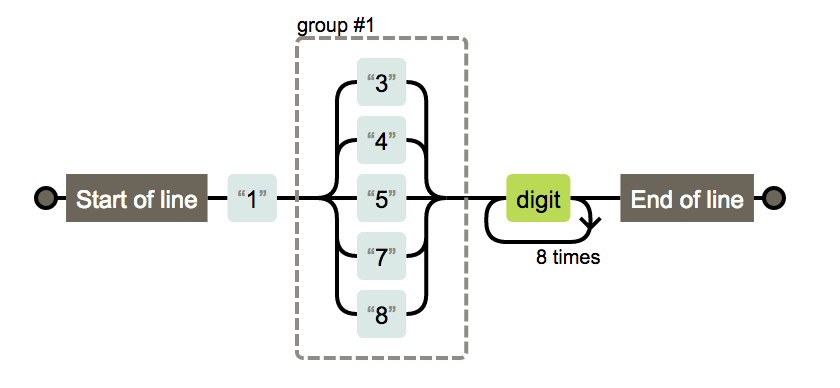
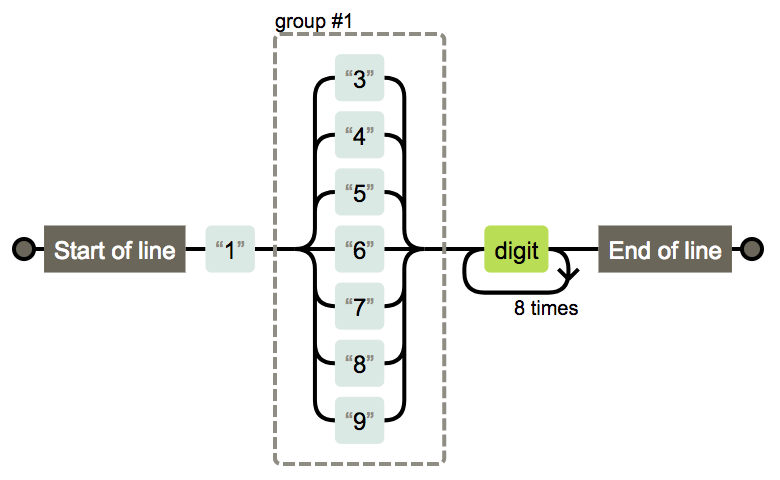
FIxed #1, Add 166/199 cell phone number

Changed region(s): [[0.0, 0.0309, 0.9846, 0.9897], [0.3385, 0.2474, 0.3692, 0.4021], [0.3385, 0.6186, 0.3692, 0.7423]]

diff --git a/README.md b/README.md
@@ -1,6 +1,6 @@
-# Common Regular Expression
-
-![Regex](images/regex.png)
+<div align="center">
+    <p><img src="http://openlogos.org/logos/neo.jpg" /></p>
+</div>
 
 ## 目录
 
@@ -10,31 +10,31 @@
 - [IP](#ip)
 - [帐号校验](#帐号校验)
 - [字符校验](#字符校验)
-    - [汉字](#汉字)
-    - [英文和数字](#英文和数字)
-    - [长度为3-20的所有字符](#长度为3-20的所有字符)
-    - [英文字符](#由英文字符)
-        - [由26个英文字母组成的字符串](#由26个英文字母组成的字符串)
-        - [由26个大写英文字母组成的字符串](#由26个大写英文字母组成的字符串)
-        - [由26个小写英文字母组成的字符串](#由26个小写英文字母组成的字符串)
-        - [由数字和26个英文字母组成的字符串](#由数字和26个英文字母组成的字符串)
-        - [由数字、26个英文字母或者下划线组成的字符串](#由数字26个英文字母或者下划线组成的字符串)
-    - [中文、英文、数字包括下划线](#中文英文数字包括下划线)
-    - [中文、英文、数字但不包括下划线等符号](#中文英文数字但不包括下划线等符号)
-    - [禁止输入含有^%&',;=?$\"等字符](#禁止输入含有等字符)
-    - [禁止输入含有~的字符](#禁止输入含有的字符)
+  - [汉字](#汉字)
+  - [英文和数字](#英文和数字)
+  - [长度为3-20的所有字符](#长度为3-20的所有字符)
+  - [英文字符](#由英文字符)
+    - [由26个英文字母组成的字符串](#由26个英文字母组成的字符串)
+    - [由26个大写英文字母组成的字符串](#由26个大写英文字母组成的字符串)
+    - [由26个小写英文字母组成的字符串](#由26个小写英文字母组成的字符串)
+    - [由数字和26个英文字母组成的字符串](#由数字和26个英文字母组成的字符串)
+    - [由数字、26个英文字母或者下划线组成的字符串](#由数字26个英文字母或者下划线组成的字符串)
+  - [中文、英文、数字包括下划线](#中文英文数字包括下划线)
+  - [中文、英文、数字但不包括下划线等符号](#中文英文数字但不包括下划线等符号)
+  - [禁止输入含有^%&',;=?$\"等字符](#禁止输入含有等字符)
+  - [禁止输入含有~的字符](#禁止输入含有的字符)
 - [数字正则](#数字正则)
-    - [整数](#整数)
-        - [正整数](#正整数)
-        - [负整数](#负整数)
-        - [非负整数](#非负整数)
-        - [非正整数](#非正整数)
-    - [浮点数](#浮点数)
-        - [正浮点数](#正浮点数)
-        - [负浮点数](#负浮点数)
-        - [非负浮点数](#非负浮点数)
-        - [非正浮点数](#非正浮点数)
-   
+  - [整数](#整数)
+    - [正整数](#正整数)
+    - [负整数](#负整数)
+    - [非负整数](#非负整数)
+    - [非正整数](#非正整数)
+  - [浮点数](#浮点数)
+    - [正浮点数](#正浮点数)
+    - [负浮点数](#负浮点数)
+    - [非负浮点数](#非负浮点数)
+    - [非正浮点数](#非正浮点数)
+
 ## 邮箱
 
 `gaozihang-001@gmail.com` 只允许英文字母、数字、下划线、英文句号、以及中划线组成
@@ -58,7 +58,7 @@
 `13012345678` 手机号
 
 ```regex
-^1(3|4|5|7|8)\d{9}$
+^1(3|4|5|6|7|8|9)\d{9}$
 ```
 
 ![phone](images/phone.png)
